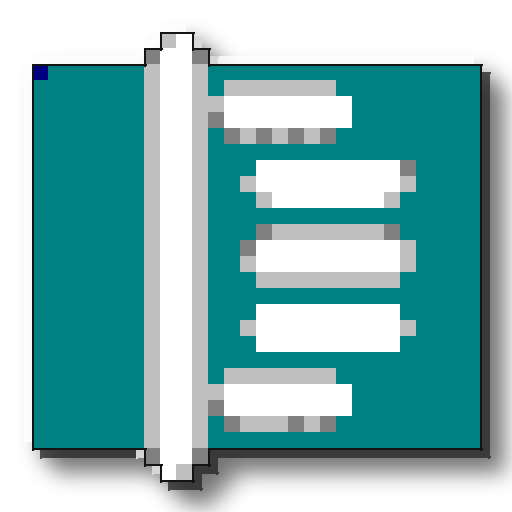
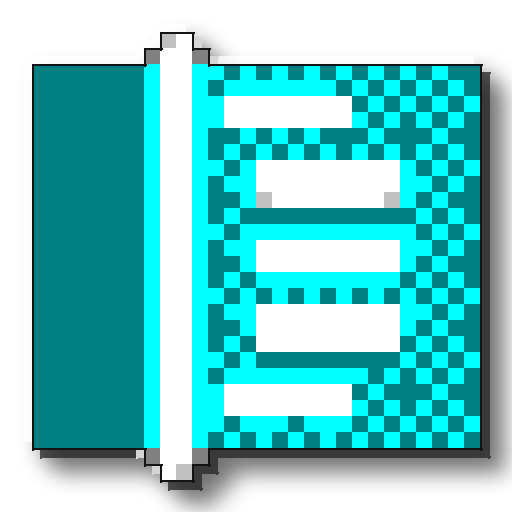
Fix win95 palette matching: hue-aware nearest-color instead of plain RGB distance, which was routing most saturated colors to gray

diff --git a/chunkify95.py b/chunkify95.py
@@ -2,12 +2,12 @@
 """Recreates a modern app icon in a rough Windows-98-era style: a chunky
 low-color pixelation pass with ordered dithering, a black outline traced
 around the outer silhouette, then a hand-rolled 3D bevel and drop shadow
-layered on top (the parts a pure pixelation pass can't give you -- real
+layered on top (the parts a pure pixelation pass can't give you: real
 Win9x icons are flat-shaded and cel-outlined, closer to comic inking than a
 pixelated photo filter, high-contrast, and usually have a hard drop
 shadow).
 
-This is a heuristic re-stylization, not true style transfer -- it works
+This is a heuristic re-stylization, not true style transfer. It works
 reasonably well on simple, high-contrast, single-subject icons (the common
 case for app icons) and will look mediocre on busy/photographic ones. See
 README.md for what it's actually good and bad at, and for why dithering is
@@ -18,6 +18,7 @@ Usage:
   python3 chunkify95.py --input icon.png --output-dir out/ --palette win95 --pixel-grid 32
 """
 import argparse
+import colorsys
 import os
 
 from PIL import Image, ImageDraw, ImageFilter
@@ -28,13 +29,56 @@ SIZES = [16, 22, 24, 32, 48, 256]
 # icons (out of the 256 colors the OS technically supported). Available via
 # --palette win95 for a stricter period-accurate look; costs real color
 # richness on icons whose hues aren't close to any of these 16 (see
-# README's "Dithering, and why it's ordered not Floyd-Steinberg").
+# README's "Dithering").
 WIN95_PALETTE = [
     (0, 0, 0), (128, 0, 0), (0, 128, 0), (128, 128, 0),
     (0, 0, 128), (128, 0, 128), (0, 128, 128), (192, 192, 192),
     (128, 128, 128), (255, 0, 0), (0, 255, 0), (255, 255, 0),
     (0, 0, 255), (255, 0, 255), (0, 255, 255), (255, 255, 255),
 ]
+
+# The 4 achromatic win95 entries, and the other 12 grouped into dark/bright
+# pairs per hue. Used by nearest_win95_color, since plain Euclidean RGB
+# distance picks gray for most medium-saturation colors (gray sits centrally
+# in RGB space, so it reads as "close" to nearly anything, regardless of
+# hue), so matching has to treat hue and grayness as separate questions
+# instead of one combined distance. See README's "Palettes".
+WIN95_ACHROMATIC = [(0, 0, 0), (128, 128, 128), (192, 192, 192), (255, 255, 255)]
+WIN95_HUE_FAMILIES = {
+    "red": ((128, 0, 0), (255, 0, 0)),
+    "yellow": ((128, 128, 0), (255, 255, 0)),
+    "green": ((0, 128, 0), (0, 255, 0)),
+    "cyan": ((0, 128, 128), (0, 255, 255)),
+    "blue": ((0, 0, 128), (0, 0, 255)),
+    "magenta": ((128, 0, 128), (255, 0, 255)),
+}
+
+
+def nearest_win95_color(r, g, b, sat_threshold=0.15):
+    """Hue-aware nearest-color lookup for the fixed win95 palette: pixels
+    below the saturation threshold match among black/gray/silver/white by
+    brightness only; everything else matches to the closest hue family
+    first, then picks that family's dark or bright variant by whichever is
+    closer in brightness. Two separate decisions (hue, then lightness)
+    instead of one combined RGB distance, which is what lets an actually
+    purple pixel land on purple instead of gray.
+    """
+    h, s, v = colorsys.rgb_to_hsv(r / 255, g / 255, b / 255)
+    if s < sat_threshold:
+        return min(WIN95_ACHROMATIC, key=lambda c: abs(colorsys.rgb_to_hsv(*(x / 255 for x in c))[2] - v))
+
+    def hue_distance(h1, h2):
+        d = abs(h1 - h2)
+        return min(d, 1 - d)
+
+    family = min(
+        WIN95_HUE_FAMILIES.values(),
+        key=lambda pair: hue_distance(h, colorsys.rgb_to_hsv(*(x / 255 for x in pair[0]))[0]),
+    )
+    dark, bright = family
+    dark_v = colorsys.rgb_to_hsv(*(x / 255 for x in dark))[2]
+    bright_v = colorsys.rgb_to_hsv(*(x / 255 for x in bright))[2]
+    return dark if abs(v - dark_v) < abs(v - bright_v) else bright
 
 # 4x4 Bayer ordered-dither threshold matrix.
 BAYER_4X4 = [
@@ -51,18 +95,29 @@ def build_adaptive_palette(img_rgb, colors):
     return [tuple(flat[i:i + 3]) for i in range(0, len(flat), 3)]
 
 
-def ordered_dither(img_rgb, palette_colors, spread=40):
+def _nearest_rgb(r, g, b, palette_colors):
+    return min(palette_colors, key=lambda c: (c[0] - r) ** 2 + (c[1] - g) ** 2 + (c[2] - b) ** 2)
+
+
+def ordered_dither(img_rgb, palette_colors, spread=40, match_fn=None):
     """Ordered (Bayer 4x4) dithering: perturbs each pixel by a fixed,
     position-based threshold before nearest-palette-color lookup. Unlike
     error-diffusion dithering (Floyd-Steinberg), each pixel's decision is
     independent of its neighbors' error, so it produces a regular,
     deliberate-looking checkerboard exactly at color-transition zones
-    instead of scattered noise across the whole image -- much closer to how
+    instead of scattered noise across the whole image, much closer to how
     real Win9x icon art dithers shading by hand. spread=0 disables the
     perturbation entirely (plain nearest-color, no dither).
 
+    match_fn(r, g, b) -> (r, g, b) overrides the default plain-Euclidean
+    nearest-color lookup; pass nearest_win95_color for palette="win95" (see
+    its docstring for why the default distance metric picks gray far too
+    often). Left as plain Euclidean for the adaptive palette, where it's
+    fine: an adaptive palette is built from the image's own colors, so nothing
+    in it competes with gray for pixels that clearly aren't gray.
+
     PIL quirk found along the way: passing dither= directly to
-    quantize(method=MEDIANCUT, ...) is silently ignored -- verified by
+    quantize(method=MEDIANCUT, ...) is silently ignored. Verified by
     diffing output with dither=NONE vs. dither=FLOYDSTEINBERG on the same
     call, byte-identical. Even worked around (dither only takes effect
     remapping onto an *already-built* palette), Floyd-Steinberg's cascading
@@ -70,6 +125,7 @@ def ordered_dither(img_rgb, palette_colors, spread=40):
     chaotic per-pixel noise rather than the sparse, deliberate dithering
     real icons have. This hand-rolled ordered dither replaced it entirely.
     """
+    match_fn = match_fn or (lambda r, g, b: _nearest_rgb(r, g, b, palette_colors))
     w, h = img_rgb.size
     px = img_rgb.load()
     out = Image.new("RGB", (w, h))
@@ -82,7 +138,7 @@ def ordered_dither(img_rgb, palette_colors, spread=40):
             r2 = max(0, min(255, r + t))
             g2 = max(0, min(255, g + t))
             b2 = max(0, min(255, b + t))
-            out_px[x, y] = min(palette_colors, key=lambda c: (c[0] - r2) ** 2 + (c[1] - g2) ** 2 + (c[2] - b2) ** 2)
+            out_px[x, y] = match_fn(r2, g2, b2)
     return out
 
 
@@ -90,17 +146,18 @@ def pixelate_and_quantize(img, grid, colors, palette="adaptive", dither_spread=4
     """The "pixel analyze" pass: downsample to a small grid (area-averaging,
     so each output pixel is the dominant color of its source block, not just
     a sample), then quantize with ordered dithering (see ordered_dither) at
-    this low grid resolution -- before the nearest-neighbor upscale, so the
+    this low grid resolution, before the nearest-neighbor upscale, so the
     dither pattern itself comes out as chunky, clearly visible pixel
-    squares instead of a fine-grained texture -- then scale back up with
+    squares instead of a fine-grained texture. Then scale back up with
     nearest-neighbor to keep hard pixel edges instead of blur.
 
     palette="adaptive" (default) builds a best-fit palette of `colors`
-    colors for this specific image -- keeps the source's actual hues
+    colors for this specific image, keeping the source's actual hues
     recognizable. palette="win95" instead remaps onto the real fixed
-    16-color Windows palette (WIN95_PALETTE); more period-accurate, but
-    loses real color fidelity on hues that aren't close to any of the 16
-    (an icon's purple, for instance, has no close match and ends up gray).
+    16-color Windows palette (WIN95_PALETTE), matched hue-first via
+    nearest_win95_color rather than plain RGB distance (which routes most
+    medium-saturation colors to gray regardless of actual hue: see that
+    function's docstring).
     """
     w, h = img.size
     size = max(w, h)
@@ -112,8 +169,11 @@ def pixelate_and_quantize(img, grid, colors, palette="adaptive", dither_spread=4
     alpha = square.split()[-1]
 
     small = square.convert("RGB").resize((grid, grid), Image.BOX)
-    palette_colors = WIN95_PALETTE if palette == "win95" else build_adaptive_palette(small, colors)
-    quantized_rgb = ordered_dither(small, palette_colors, spread=dither_spread)
+    if palette == "win95":
+        quantized_rgb = ordered_dither(small, WIN95_PALETTE, spread=dither_spread, match_fn=nearest_win95_color)
+    else:
+        palette_colors = build_adaptive_palette(small, colors)
+        quantized_rgb = ordered_dither(small, palette_colors, spread=dither_spread)
 
     small_alpha = alpha.resize((grid, grid), Image.BOX).point(lambda p: 255 if p > 96 else 0)
 
@@ -126,7 +186,7 @@ def pixelate_and_quantize(img, grid, colors, palette="adaptive", dither_spread=4
 
 def add_pixel_outline(img, grid, thickness=None, color=(20, 20, 20, 255)):
     """Traces a black outline around the outer silhouette only (the
-    transparent-to-opaque boundary) -- not between every internal color
+    transparent-to-opaque boundary), not between every internal color
     cell. An early version of this outlined every color boundary, which
     over-inks flat-shaded regions into a stained-glass look real icons don't
     have. Reference icons only hard-outline the overall shape; internal
@@ -166,7 +226,7 @@ def add_pixel_outline(img, grid, thickness=None, color=(20, 20, 20, 255)):
 
 def add_bevel(img, thickness=None):
     """A hard light-top-left/dark-bottom-right bevel traced along the alpha
-    silhouette's edge -- the single most recognizable trait of Win9x icons.
+    silhouette's edge, the single most recognizable trait of Win9x icons.
     Approximated by compositing a slightly-offset lighter/darker copy of the
     silhouette behind the original, rather than true per-pixel edge tracing.
     """

diff --git a/README.md b/README.md
@@ -40,8 +40,8 @@ Options:
 --colors N         adaptive palette size, ignored unless --palette adaptive (default: 12)
 --palette MODE     adaptive (default): best-fit palette per image, keeps
                     real color fidelity. win95: the real fixed 16-color
-                    VGA palette, more period-accurate but loses hues with
-                    no close match (see below).
+                    VGA palette, hue-matched (see "Palettes" below),
+                    more period-accurate but still fewer colors overall.
 --dither-spread N  ordered-dither strength, 0 disables (default: 40)
 --no-bevel         skip the 3D bevel pass
 --no-shadow        skip the drop shadow
@@ -103,22 +103,32 @@ Windows 95 primarily used a 16-color palette for standard desktop icons
 (the OS technically supported up to 256). Using that literal fixed
 palette (`--palette win95`) is more historically accurate, but real icons
 were hand-drawn by artists choosing which of those colors to use per
-region, not automatically quantized against them. Run it automatically on
-a modern icon and any hue without a close match in those 16 colors just
-degrades: a source purple, with nothing near it in the palette, ends up
-flattened to gray. The default `adaptive` palette keeps a source's actual
-colors recognizable, which matters more for actually identifying the app
-than strict period accuracy does. If you do use `--palette win95`, raise
+region, not automatically quantized against them.
+
+Matching each pixel to its nearest palette color by plain RGB distance
+mostly defeats the point: gray sits centrally in RGB space, so it reads as
+"close" to almost any medium-saturation color regardless of hue. A source
+purple with no exact match in the 16 colors would land on gray instead of
+purple, red, or blue, even though a person would never call that pixel
+gray. `nearest_win95_color` fixes this by treating hue and grayness as
+separate questions: pixels below a saturation threshold match among
+black/gray/silver/white by brightness only, everything else matches to the
+closest *hue family* first, then picks that family's dark or bright variant
+by brightness. Two decisions instead of one combined distance, and colors
+land on an actually-related hue instead of the desaturated middle color.
+
+The default `adaptive` palette doesn't need this: it's built from the
+image's own colors, so nothing in it is competing with gray for pixels that
+clearly aren't gray. If you do use `--palette win95`, also raise
 `--pixel-grid` (32 works well). More spatial resolution gives the dither
-pattern more room to carry detail that the smaller palette can't represent
+pattern more room to carry detail the smaller palette can't represent
 directly.
 
 ## Win95 sample
 
 Same five icons, `--palette win95 --pixel-grid 32` instead of the adaptive
 default. Compare against the table at the top: more period-accurate colors,
-noticeably less vibrant, but still legible thanks to the higher grid
-resolution.
+still recognizably the right hues now that matching is hue-aware.
 
 <img src="examples/gear-win98-win95palette.png" width="90"> <img src="examples/firefox-win98-win95palette.png" width="90"> <img src="examples/chromium-win98-win95palette.png" width="90"> <img src="examples/steam-win98-win95palette.png" width="90"> <img src="examples/code-oss-win98-win95palette.png" width="90">
 
